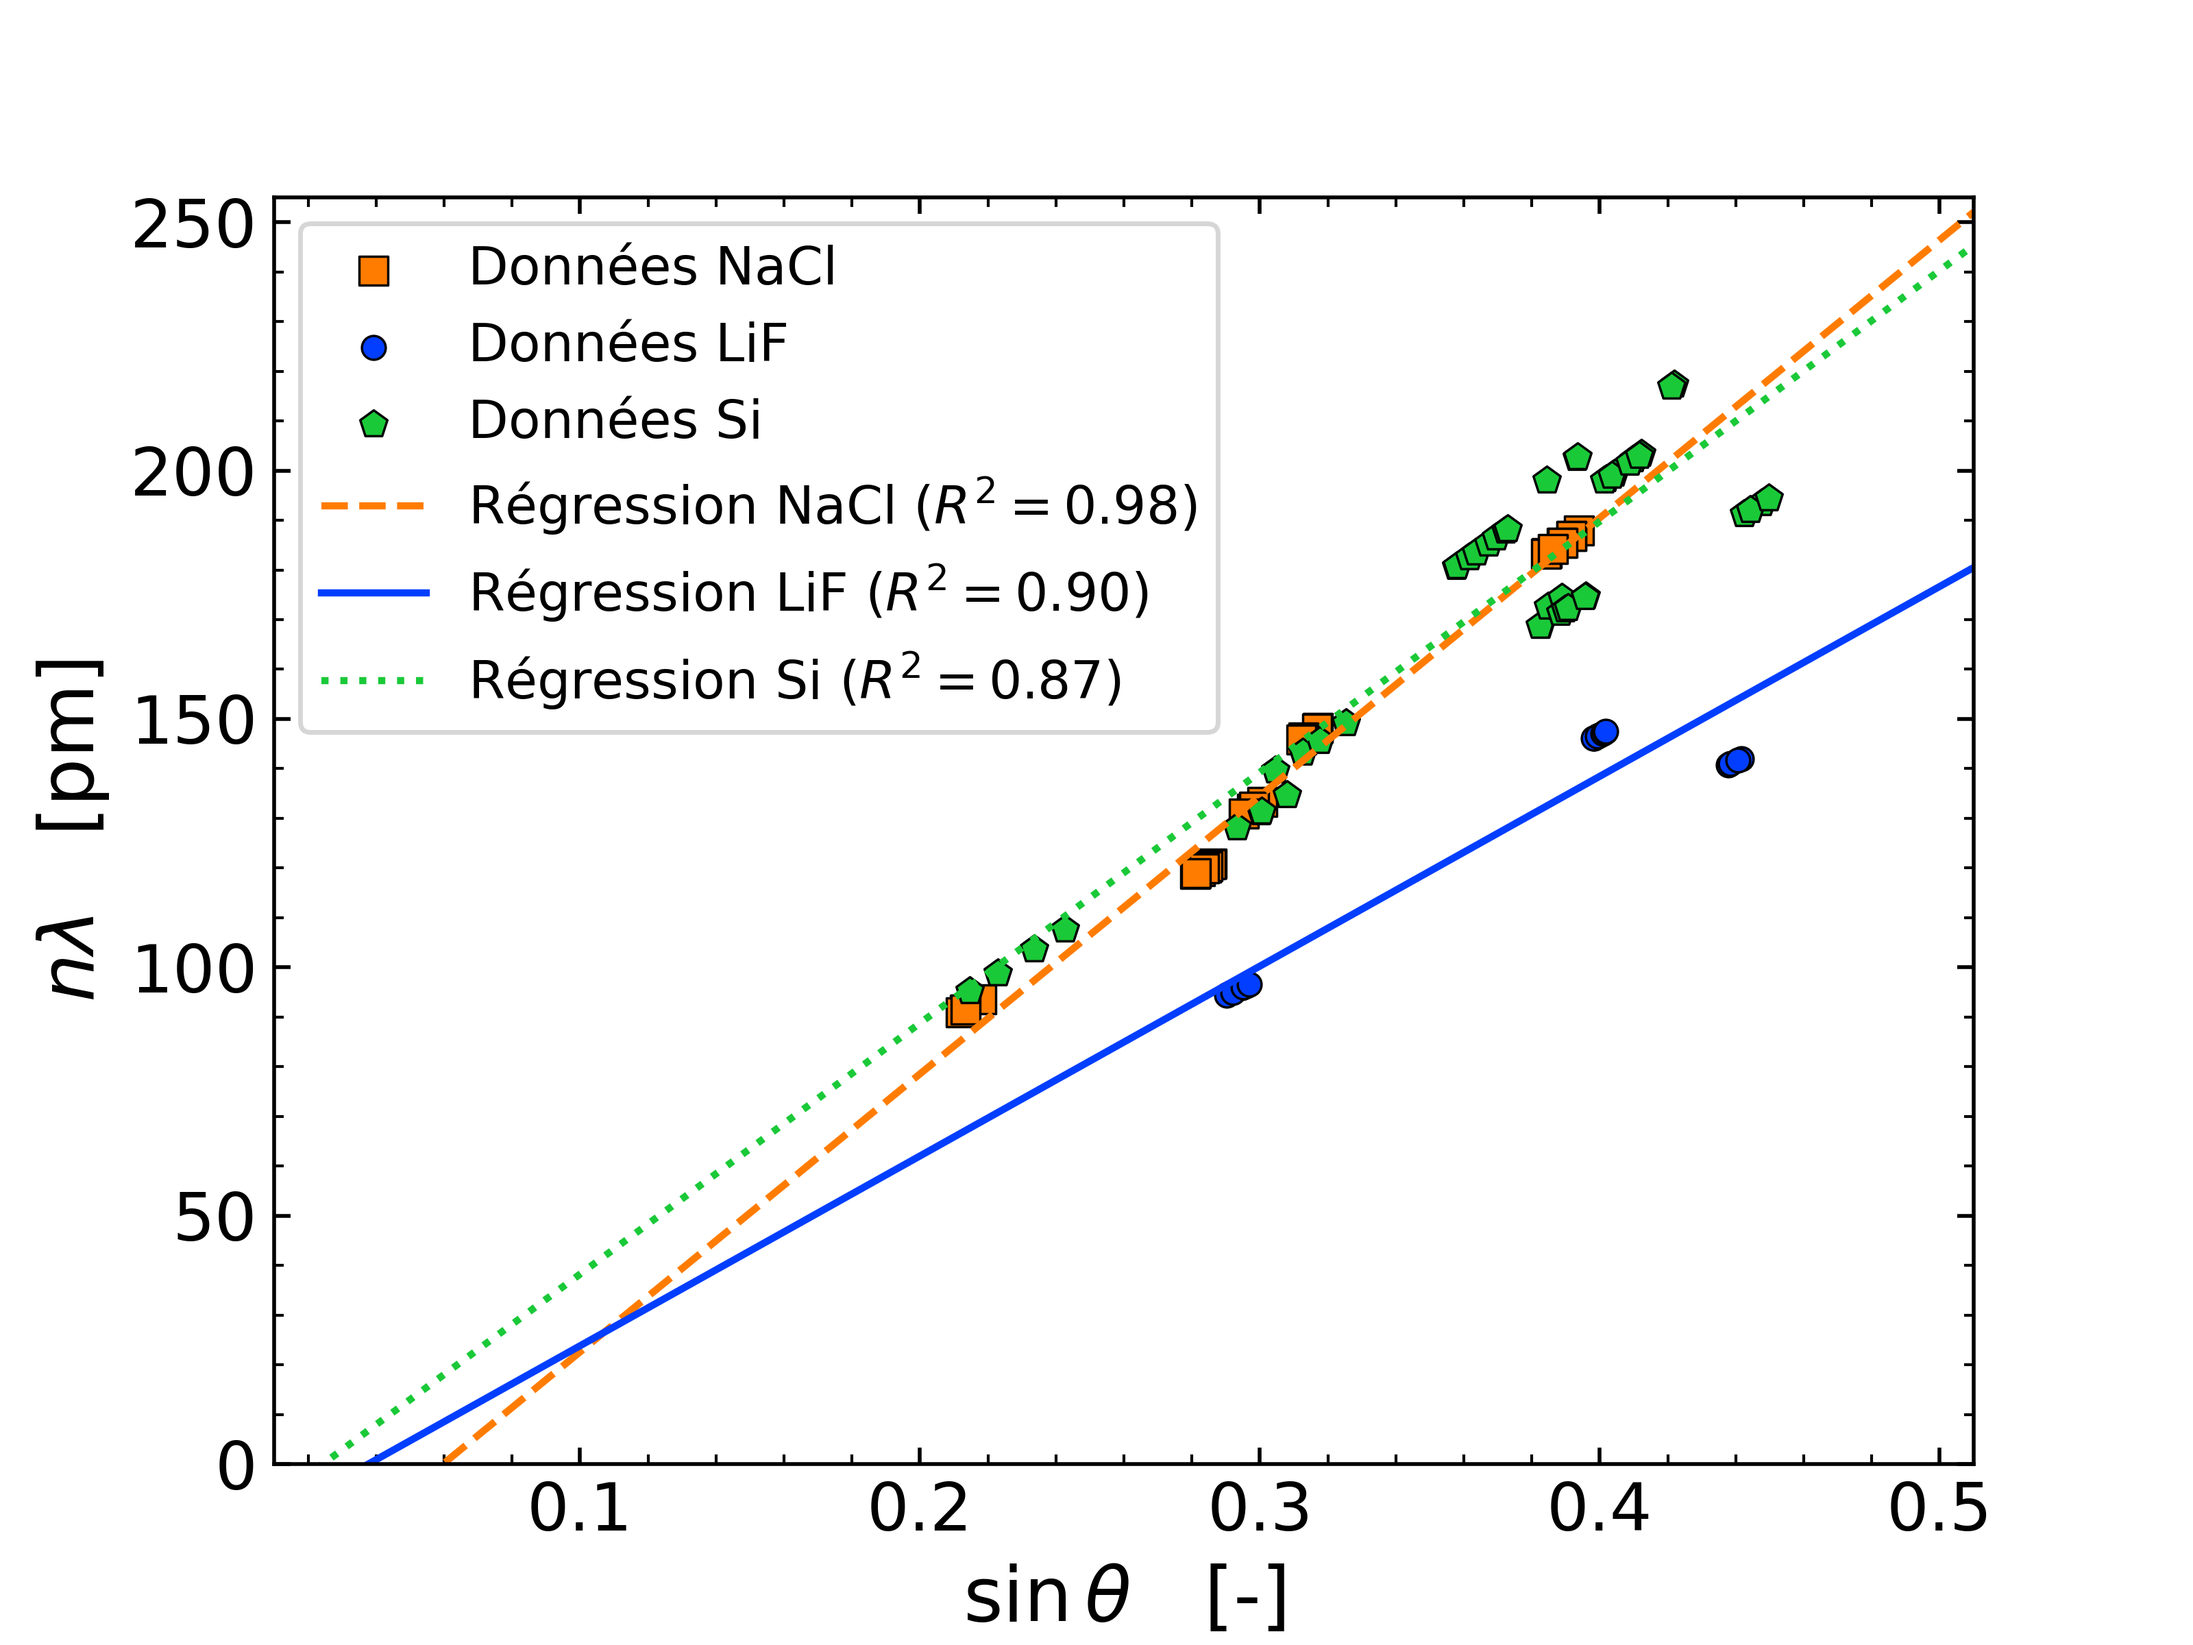
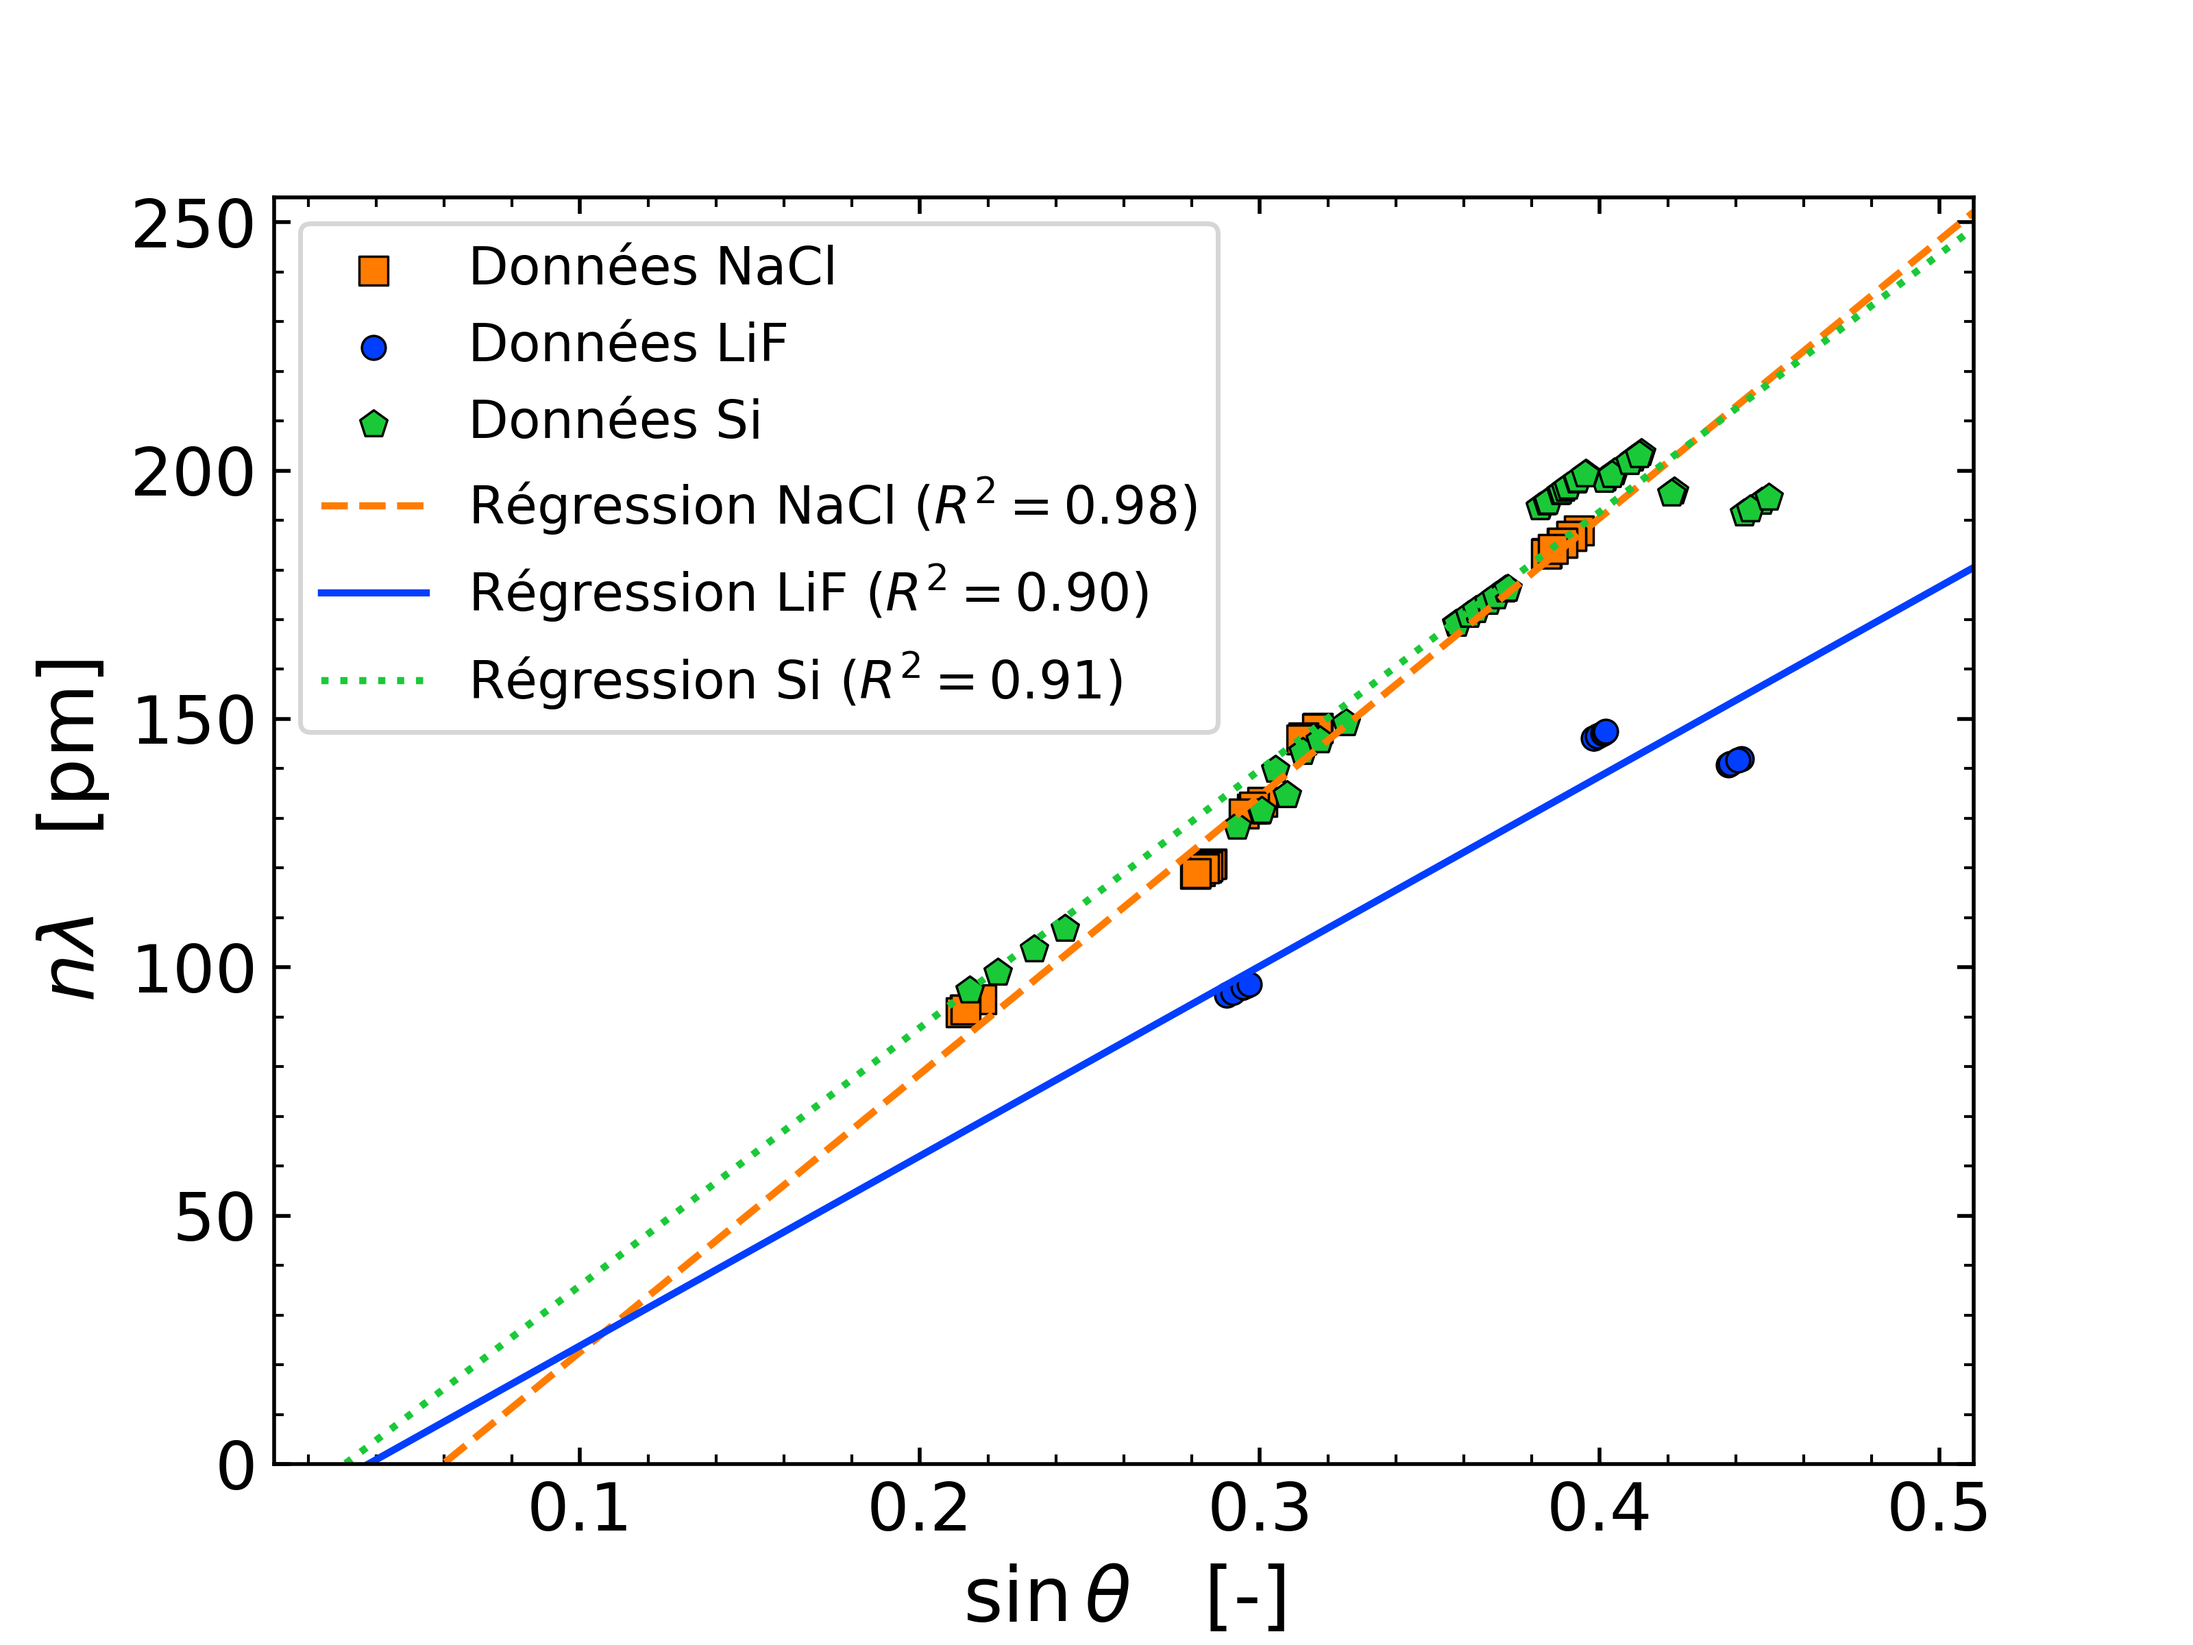
More parity

diff --git a/analyse_Laue.py b/analyse_Laue.py
@@ -336,6 +336,7 @@ def laue(name, centroids, uncerts, center):
         'l': [],
         'n': [],
         'd_hkl': [],
+        'd_hkl_err': [],
         'theta': [],
         'wavelength': []
     }
@@ -382,14 +383,39 @@ def laue(name, centroids, uncerts, center):
         k = round(yQ * factor)
 
         # Adjust l if parity conditions are not met
-        if (h + k) % 2 == 1 or (h + l) % 2 == 1:
-            l = 2
-            factor = l / zQ
-            h = round(xQ * factor)
-            k = round(yQ * factor)
+        if name == "Si":
+            if h % 2 == 0 or k % 2 == 0:
+                l = 2
+                factor = l / zQ
+                h = round(xQ * factor)
+                k = round(yQ * factor)
+                if h % 2 != 0 or k % 2 != 0:
+                    l = 3
+                    factor = l / zQ
+                    h = round(xQ * factor)
+                    k = round(yQ * factor)
+                    if h % 2 == 0 or k % 2 == 0:
+                        l = 4
+                        factor = l / zQ
+                        h = round(xQ * factor)
+                        k = round(yQ * factor)
+                    #if (h + k + l) % 4 != 0:
+                    #    l = 1
+                    #    factor = l / zQ
+                    #    h = round(xQ * factor) + 1
+                    #    k = round(yQ * factor) + 1
+
+        else:
+            if (h + k) % 2 != 0 or (h + l) % 2 != 0:
+                l = 2
+                factor = l / zQ
+                h = round(xQ * factor)
+                k = round(yQ * factor)
 
         n = np.sqrt(h ** 2 + k ** 2 + l ** 2)
         d_hkl = a0 / n
+        d_hkl_uncert = a0 / np.sqrt((xQ_uncert*factor)**2 +
+                                    (yQ_uncert*factor)**2 + (zQ_uncert*factor)**2)
 
         theta = np.arctan(zQ / np.sqrt(xQ ** 2 + yQ ** 2))
         wavelength = 2 * d_hkl * np.sin(theta)
@@ -402,6 +428,7 @@ def laue(name, centroids, uncerts, center):
         laue_data['l'].append(l)
         laue_data['n'].append(round(n))
         laue_data['d_hkl'].append(d_hkl)
+        laue_data['d_hkl_err'].append(d_hkl_uncert)
         laue_data['theta'].append(theta)
         laue_data['wavelength'].append(wavelength)
 
@@ -560,15 +587,15 @@ if __name__ == "__main__":
     laue_dict_si = laue(si_name, centroids_si, uncert_si, center_si)
     #lau_to_excel(lif_name, laue_dict_lif)
     #lau_to_excel(nacl_name, laue_dict_nacl)
-    #lau_to_excel(si_name, laue_dict_si)
+    lau_to_excel(si_name, laue_dict_si)
 
     #draw_points(lif_img, lif_name, centroids_lif, laue_dict_lif, center_lif)
     #draw_points(nacl_img, nacl_name, centroids_nacl, laue_dict_nacl, center_nacl)
-    #draw_points(si_img, si_name, centroids_si, laue_dict_si, center_si)
+    draw_points(si_img, si_name, centroids_si, laue_dict_si, center_si)
 
     #gnomonique(laue_dict_lif, lif_name)
     #gnomonique(laue_dict_nacl, nacl_name)
-    #gnomonique(laue_dict_si, si_name)
+    gnomonique(laue_dict_si, si_name)
 
     a0 = plot_a0(laue_dict_lif, laue_dict_nacl, laue_dict_si)
     lau_to_excel("a0", a0)
